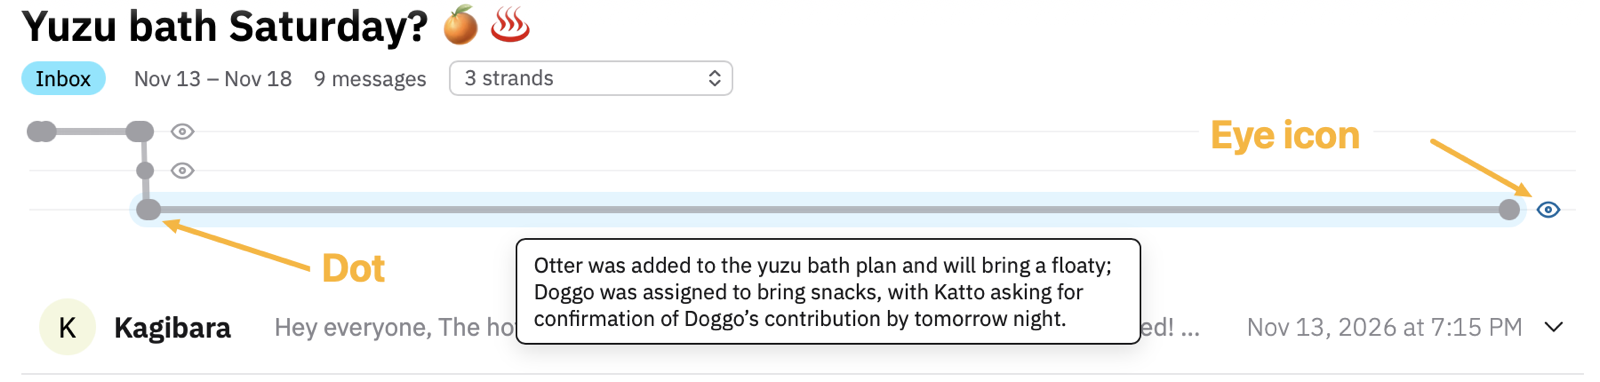
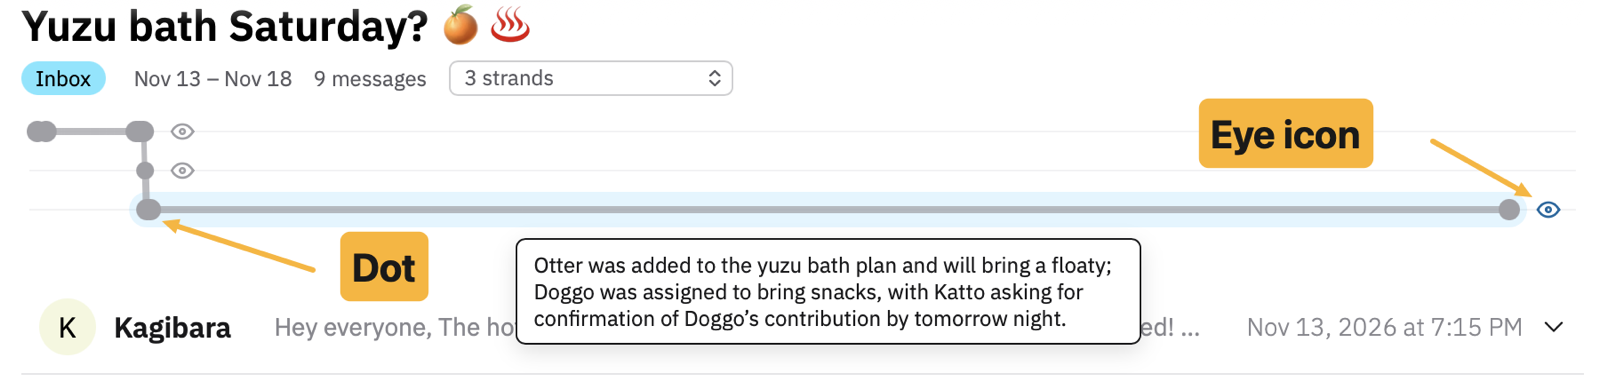
Kagi Mail docs update (#1056)

Changed region(s): [[0.75, 0.2592, 0.875, 0.4607], [0.1875, 0.6047, 0.2812, 0.8063]]

diff --git a/docs/kagi/mail/user-guide.md b/docs/kagi/mail/user-guide.md
@@ -416,7 +416,7 @@ Kagi Mail Labs is where we test new features before they become part of Kagi Mai
 
 **Preview** uses AI to replace the first lines of each email in your inbox list with a one-line preview of what the email is about, not only how it starts. It applies to new mail and needs the **Read message contents** permission from [Rules](#permissions).
 
-![Inbox rows with one-line previews](./media/mail-preview.png){data-zoomable}
+![Inbox rows, one with a one-line preview](./media/mail-preview.png){data-zoomable}
 
 This is different from the **Show Previews** setting in [Settings > Appearance](https://kagimail.com/settings), which turns the preview line in your inbox list on or off.
 
